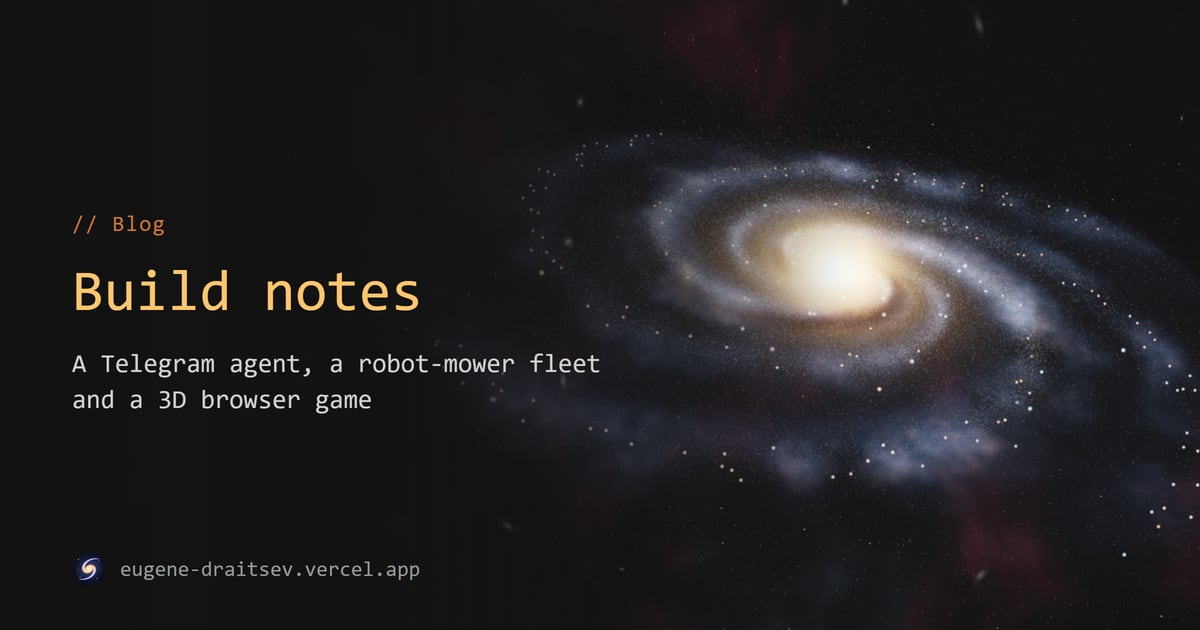
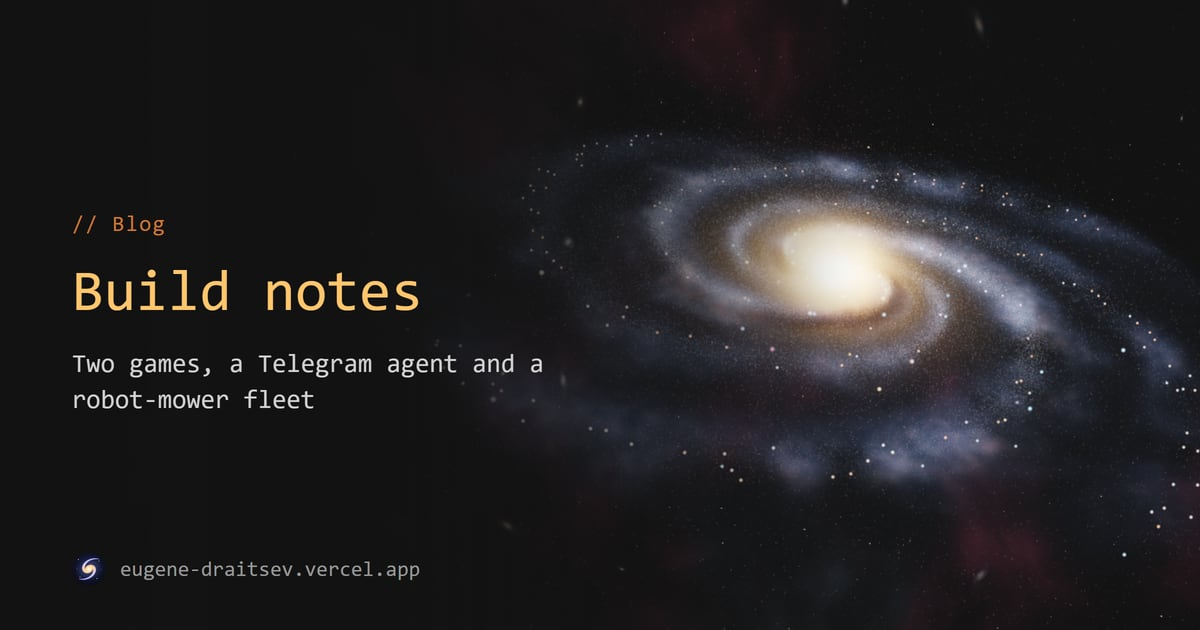
Add a post about Rainroam, the Shipaton 2026 entry
A souls-lite action RPG for phones, played with one thumb, drawn by a
WebGPU/TypeGPU renderer and a Phaser pixel-art renderer over the same
game state, so the style switches mid-fight. The post covers the
controls, the two renderers, the content, the problems worth writing
down (renderer sync, the Galaxy S25 driver bug, per-device renderer
choice, Samsung IAP through RevenueCat), pricing, the timeline from
plan to the web, Galaxy Store and the Mac App Store, the trailer and
the stack, with screenshots from the game's press kit and its own
social card. The blog card and intro now cover four projects.

Changed region(s): [[0.0617, 0.5429, 0.4933, 0.6635]]

diff --git a/src/routes/blog/rainroam/+page.svelte b/src/routes/blog/rainroam/+page.svelte
@@ -1,0 +1,388 @@
+<script lang="ts">
+  import SocialImage from '$lib/components/SocialImage.svelte';
+  import PostDates from '$lib/components/PostDates.svelte';
+  import { resolve } from '$app/paths';
+  import Icon from '$lib/components/Icon.svelte';
+  import ZoomableImage from '$lib/components/ZoomableImage.svelte';
+  import { getBlogPost, serializeJsonLd } from '$lib/blog';
+  import { SITE_DATA } from '$lib/constants';
+
+  const playUrl = 'https://rainroam.pages.dev/';
+  const galaxyUrl = 'https://galaxystore.samsung.com/detail/com.eugenedraitsev.rainroam';
+  const appStoreUrl = 'https://apps.apple.com/app/id6813862126';
+  const devpostUrl = 'https://devpost.com/software/rainroam';
+  const trailerUrl = 'https://www.youtube.com/watch?v=VofgRBF6jP4';
+
+  const post = getBlogPost('rainroam');
+  const canonicalUrl = new URL(`/blog/${post.slug}`, SITE_DATA.siteUrl).href;
+  const socialImageUrl = new URL(post.socialImage, SITE_DATA.siteUrl).href;
+  const postSchema = {
+    '@context': 'https://schema.org',
+    '@type': 'BlogPosting',
+    headline: post.title,
+    description: post.description,
+    image: socialImageUrl,
+    datePublished: post.datePublished,
+    dateModified: post.dateModified,
+    mainEntityOfPage: canonicalUrl,
+    author: { '@type': 'Person', name: SITE_DATA.details.name, url: SITE_DATA.siteUrl },
+  };
+
+  const highlights = [
+    { value: '13 days', label: 'first build to Galaxy Store' },
+    { value: '2', label: 'renderers, one game state' },
+    { value: '13', label: 'dungeons and caves' },
+    { value: '3', label: 'languages' },
+  ];
+
+  const content = [
+    '7 regions, from pink lakes to the snowy north, each with its own time of day and weather',
+    '5 towns with residents and questlines, starting from Bellwether',
+    '13 dungeons and caves with seeded layouts, secrets and a guardian at the end',
+    '2 heroes: a cat knight who fights up close and a frog Rainkeeper who casts from range',
+    '4 mini-games between fights: fishing, a paper-boat regatta, mushroom foraging and a concert',
+    'an original synthesized soundtrack that tightens in fights and settles at lanterns',
+  ];
+
+  const problems = [
+    {
+      title: 'keep two renderers in step',
+      text: 'Switching mid-fight only works if both renderers agree on everything that matters for play: hitboxes, the ground outline of every incoming attack, camera angle and timing. Neither renderer owns any of it. Both read the same simulation each frame, so a blow that starts in 3D lands exactly the same way in pixel art.',
+    },
+    {
+      title: 'a driver bug only real hardware shows',
+      text: 'On the Galaxy S25 an Adreno driver issue made skinned characters and their shadows disappear. It never showed in emulators; Samsung Remote Test Lab reproduced it. The fix was a different packing of the GPU buffers, and it reached the store build the same day through the app’s signed live-update channel.',
+    },
+    {
+      title: 'pick the renderer per device by testing it',
+      text: 'Phone models and chipsets say little about what the WebView actually supports, so the game probes graphics support inside the real WebView at start-up. Devices without WebGPU get the pixel-art renderer, which has the whole game; devices with it let the player choose.',
+    },
+    {
+      title: 'Galaxy Store billing through RevenueCat',
+      text: 'RevenueCat’s Capacitor plugin does not expose Galaxy Store billing. Its native Android SDK does, so that SDK is bridged into Capacitor by hand: Samsung IAP sells one non-consumable Full Game, and RevenueCat keeps the entitlement and handles restores. It was tested with real purchases on Galaxy hardware.',
+    },
+  ];
+
+  const timeline = [
+    {
+      title: 'Mid-August: planning',
+      text: 'The idea: something like a console action RPG that works on a phone held in one hand, on a train. A few throwaway prototypes followed by early September.',
+    },
+    {
+      title: 'September 17: version 0.0.1 on the web',
+      text: 'A cat knight in a voxel dungeon, deployed to Cloudflare Pages on day one. Everything after that shipped continuously from the same TypeScript codebase.',
+    },
+    {
+      title: 'September 30: Galaxy Store and Shipaton',
+      text: 'Galaxy Store approved version 1.0.1, and the game went in to RevenueCat Shipaton 2026 for the Best Game, RevenueCat Design and Best App for Galaxy awards.',
+    },
+    {
+      title: 'October: the Mac App Store and the Wishing Well',
+      text: 'The Mac version went live on the App Store, and version 1.1 added the Wishing Well, a hardcore roguelike mode in beta. The iPhone and iPad version is in its third round of App Store review.',
+    },
+  ];
+
+  const stack = [
+    { key: 'language', value: 'TypeScript, one codebase for web, Android, iOS and Mac' },
+    { key: '3D', value: 'WebGPU through TypeGPU: typed buffers, pipelines and WGSL shaders' },
+    { key: 'pixel art', value: 'Phaser on WebGL, its own sprites, animation and effects' },
+    { key: 'shells', value: 'Capacitor on Android and iOS, a native Mac app' },
+    { key: 'web', value: 'Cloudflare Pages, with signed live updates for the store builds' },
+    { key: 'purchases', value: 'RevenueCat, with Samsung IAP on Galaxy Store' },
+    { key: 'languages', value: 'English, Russian and Ukrainian' },
+  ];
+</script>
+
+<svelte:head>
+  <title>Rainroam: one action RPG, two renderers | Eugene Draitsev</title>
+  <meta
+    name="description"
+    content="How Rainroam was built: a one-thumb action RPG for phones with a WebGPU/TypeGPU 3D renderer and a Phaser pixel-art renderer drawing the same game state, shipped to the web, Galaxy Store and the Mac App Store."
+  />
+  <link rel="canonical" href={canonicalUrl} />
+  <meta property="og:title" content={post.title} />
+  <meta property="og:description" content={post.description} />
+  <meta property="og:type" content="article" />
+  <meta property="og:url" content={canonicalUrl} />
+  <meta property="article:published_time" content={post.datePublished} />
+  <meta property="article:modified_time" content={post.dateModified} />
+  <svelte:element this={"script"} type="application/ld+json">
+    {serializeJsonLd(postSchema)}
+  </svelte:element>
+</svelte:head>
+
+<SocialImage src={post.socialImage} alt={post.title} />
+
+<main id="main-content" class="overlapped blog-page" tabindex="-1">
+  <article class="relative mx-auto mt-[-72px] max-w-4xl px-3 pb-10 sm:px-4">
+    <div class="card">
+      <a
+        class="inline-flex items-center gap-2 text-sm text-constant underline"
+        href={resolve('/blog')}
+      >
+        <Icon icon="mdi:arrow-left" height="18" width="18" />
+        Back to posts
+      </a>
+
+      <header class="mt-6 mb-8">
+        <p class="mb-3 text-xs text-keyword uppercase sm:text-sm">
+          RevenueCat Shipaton 2026 · with Hanna Shcharbakova
+        </p>
+        <h1 class="blog-title">Rainroam: one action RPG, drawn by two renderers</h1>
+        <p class="post-meta">
+          <PostDates added={post.datePublished} updated={post.dateModified} />
+        </p>
+        <p class="blog-lead">
+          Rainroam is a souls-lite action adventure on islands above the clouds. You play a cat
+          knight or a frog Rainkeeper, take quests in towns, clear dungeons and fight the guardians
+          at the end of them, all with one thumb on a phone held upright. The whole game can be
+          drawn in soft-lit 3D or in pixel art, and you can switch between them at any moment, even
+          in the middle of a fight. It went from a plan in August to the web, Galaxy Store and the
+          Mac App Store in about six weeks; the iPhone version is in its third round of App Store
+          review.
+        </p>
+        <div class="mt-5 flex flex-wrap gap-4 text-sm">
+          <a class="text-constant underline" href={playUrl} target="_blank" rel="noreferrer"
+            >Play in the browser</a
+          >
+          <a class="text-constant underline" href={galaxyUrl} target="_blank" rel="noreferrer"
+            >Galaxy Store</a
+          >
+          <a class="text-constant underline" href={appStoreUrl} target="_blank" rel="noreferrer"
+            >Mac App Store</a
+          >
+          <a class="text-constant underline" href={devpostUrl} target="_blank" rel="noreferrer"
+            >Devpost submission</a
+          >
+          <a class="text-constant underline" href={trailerUrl} target="_blank" rel="noreferrer"
+            >Trailer</a
+          >
+        </div>
+
+        <dl class="stat-strip">
+          {#each highlights as highlight (highlight.label)}
+            <div class="stat">
+              <dt class="stat-value">{highlight.value}</dt>
+              <dd class="stat-label">{highlight.label}</dd>
+            </div>
+          {/each}
+        </dl>
+      </header>
+
+      <ZoomableImage
+        src="/blog/rainroam/hero-split.webp"
+        alt="The same evening in Bellwether, drawn in 3D on the left and in pixel art on the right"
+        figureClass="mb-12 overflow-hidden rounded border border-base-300 bg-base-100"
+        imageClass="w-full"
+        loading="eager"
+        caption="The same evening in Bellwether, drawn twice: 3D on the left, pixel art on the right."
+      />
+
+      <section class="mb-12">
+        <h2 class="section-heading">Played with one thumb</h2>
+        <p class="mb-6">
+          We like action RPGs on consoles and wanted one that works on a phone in one hand. Rainroam
+          is played in portrait: drag to move, release to attack, tap to dash. A second finger can
+          dash without letting go of the stick. Basic attacks are automatic, so the thumb is free
+          for positioning, stamina and timing, and every enemy attack draws its exact shape on the
+          ground before it lands. Landscape and keyboard play follow the same rules.
+        </p>
+        <div class="grid grid-cols-2 gap-4 sm:mx-auto sm:max-w-md">
+          <ZoomableImage
+            src="/blog/rainroam/phone-hero-3d.webp"
+            alt="Rainroam in portrait on a phone, drawn in 3D"
+            figureClass="overflow-hidden rounded border border-base-300"
+            imageClass="w-full"
+            caption="Portrait, 3D."
+          />
+          <ZoomableImage
+            src="/blog/rainroam/phone-hero-pixel.webp"
+            alt="The same Rainroam scene in portrait on a phone, drawn in pixel art"
+            figureClass="overflow-hidden rounded border border-base-300"
+            imageClass="w-full"
+            caption="The same moment in pixel art."
+          />
+        </div>
+      </section>
+
+      <section class="mb-12">
+        <h2 class="section-heading">Two renderers, one game state</h2>
+        <p class="mb-6">
+          The 3D view runs on WebGPU through TypeGPU; the pixel-art view runs on Phaser and WebGL.
+          They share no drawing code: each has its own characters, animations, scenery and effects,
+          and the HUD, map, fonts and menus change style with them. What they share is the
+          simulation. Both read the same game state every frame, so switching restarts nothing: the
+          hero, the enemies, the incoming attack and the save stay exactly where they were. It also
+          covers older phones, where the full game runs in pixel art without WebGPU.
+        </p>
+        <ZoomableImage
+          src="/blog/rainroam/battle-split.webp"
+          alt="A fight with amber moths, split down the middle between 3D and pixel art"
+          figureClass="mb-6 overflow-hidden rounded border border-base-300"
+          imageClass="w-full"
+          caption="Amber moths and a shard warden. The outline on the ground is the exact shape of the blow, in both styles."
+        />
+      </section>
+
+      <section class="mb-12">
+        <h2 class="section-heading">What there is to do</h2>
+        <ul class="mb-6 list-disc space-y-1 pl-5">
+          {#each content as item (item)}
+            <li>{item}</li>
+          {/each}
+        </ul>
+        <p class="mb-6">
+          Enemies drop embers. You can push on, or walk back to a lantern to spend them on levels,
+          attributes and oaths; die, and they wait where you fell until you fetch them. The Wishing
+          Well, in beta, is a separate hardcore roguelike: six depths with a keeper at the end of
+          each, 75 artifacts, synergies and one life.
+        </p>
+        <div class="grid gap-4 sm:grid-cols-2">
+          <ZoomableImage
+            src="/blog/rainroam/white-stair.webp"
+            alt="The White Stair, a floating dungeon hall, with rings marking the Key Warden's slam"
+            figureClass="overflow-hidden rounded border border-base-300"
+            imageClass="w-full"
+            caption="The White Stair. The rings show where the Key Warden will slam."
+          />
+          <ZoomableImage
+            src="/blog/rainroam/prism-hollow.webp"
+            alt="Prism Hollow, a crystal cave, and its guardian, split between 3D and pixel art"
+            figureClass="overflow-hidden rounded border border-base-300"
+            imageClass="w-full"
+            caption="Prism Hollow and its guardian, 3D and pixel art."
+          />
+          <ZoomableImage
+            src="/blog/rainroam/reedwake-storm.webp"
+            alt="Reedwake at night in a storm, with the frog Rainkeeper"
+            figureClass="overflow-hidden rounded border border-base-300"
+            imageClass="w-full"
+            caption="Reedwake at night, in a storm."
+          />
+          <ZoomableImage
+            src="/blog/rainroam/amber-fight.webp"
+            alt="A pixel-art fight in Amber Afterlight at dusk, with red lines marking incoming attacks"
+            figureClass="overflow-hidden rounded border border-base-300"
+            imageClass="w-full"
+            caption="Pixel art: a fight in Amber Afterlight at dusk."
+          />
+        </div>
+      </section>
+
+      <section class="mb-12">
+        <h2 class="section-heading">Problems worth writing down</h2>
+        <div class="rulelist">
+          {#each problems as problem, index (problem.title)}
+            <article class="rule">
+              <span class="rule-index">{String(index + 1).padStart(2, '0')}</span>
+              <h3 class="rule-title">{problem.title}</h3>
+              <p class="rule-text">{problem.text}</p>
+            </article>
+          {/each}
+        </div>
+      </section>
+
+      <section class="mb-12">
+        <h2 class="section-heading">Pricing</h2>
+        <p>
+          The first island and its first dungeon are free. At the South Bridge you can buy the Full
+          Game once for $4.99, and the same save carries on through the rest of the story; the same
+          purchase opens the deeper levels of the Wishing Well. There are no ads, subscriptions,
+          energy timers or paid power. A free first chapter and one price is how adventure games are
+          usually sold, and it lets people decide whether they like the game before paying.
+        </p>
+      </section>
+
+      <section class="mb-12">
+        <h2 class="section-heading">How it got here</h2>
+        <ol class="timeline">
+          {#each timeline as item, index (item.title)}
+            <li class="timeline-item">
+              <h3 class="timeline-title">
+                <span class="timeline-index">{String(index + 1).padStart(2, '0')}</span>
+                {item.title}
+              </h3>
+              <p class="timeline-text">{item.text}</p>
+            </li>
+          {/each}
+        </ol>
+        <p class="mt-6">
+          Like Orb Knight, it was built with coding agents: Claude Code and Codex wrote most of the
+          roughly 1,400 commits, while direction, review and a lot of playtesting stayed with us.
+          Hanna Shcharbakova is the other half of the team.
+        </p>
+      </section>
+
+      <section class="mb-12">
+        <h2 class="section-heading">The trailer</h2>
+        <a
+          class="trailer block overflow-hidden rounded border border-base-300"
+          href={trailerUrl}
+          target="_blank"
+          rel="noreferrer"
+          aria-label="Watch the Rainroam trailer on YouTube"
+        >
+          <img
+            src="/blog/rainroam/trailer.webp"
+            alt="The cat knight in 3D and as a pixel-art sprite, from the Rainroam trailer"
+            class="w-full"
+            loading="lazy"
+          />
+          <span class="trailer-play" aria-hidden="true">
+            <Icon icon="mdi:play" height="34" width="34" />
+          </span>
+        </a>
+        <p class="mt-3 text-sm text-identifier/70">Made from real gameplay. Opens on YouTube.</p>
+      </section>
+
+      <section class="mb-12">
+        <h2 class="section-heading">What it runs on</h2>
+        <dl class="spec">
+          {#each stack as row (row.key)}
+            <div class="spec-row">
+              <dt class="spec-key">{row.key}</dt>
+              <dd class="spec-value">{row.value}</dd>
+            </div>
+          {/each}
+        </dl>
+      </section>
+
+      <section>
+        <h2 class="section-heading">What's next</h2>
+        <p>
+          Tuning the Wishing Well while it is in beta, then full controller support, and after that
+          consoles.
+        </p>
+      </section>
+    </div>
+  </article>
+</main>
+
+<style>
+  .trailer {
+    position: relative;
+  }
+
+  .trailer-play {
+    position: absolute;
+    top: 50%;
+    left: 50%;
+    display: grid;
+    place-items: center;
+    width: 4.5rem;
+    height: 4.5rem;
+    margin: -2.25rem 0 0 -2.25rem;
+    border-radius: 50%;
+    background: rgb(0 0 0 / 0.6);
+    color: #fff;
+    transition:
+      transform 160ms ease,
+      background-color 160ms ease;
+  }
+
+  .trailer:hover .trailer-play,
+  .trailer:focus-visible .trailer-play {
+    transform: scale(1.08);
+    background: rgb(204 120 50 / 0.85);
+  }
+</style>

diff --git a/src/lib/icons.ts b/src/lib/icons.ts
@@ -37,6 +37,10 @@ export const ICONS: Record<string, IconDef> = {
     viewBox: '0 0 24 24',
     body: '<path fill="currentColor" d="M20 11v2H8l5.5 5.5l-1.42 1.42L4.16 12l7.92-7.92L13.5 5.5L8 11z"/>',
   },
+  'mdi:play': {
+    viewBox: '0 0 24 24',
+    body: '<path fill="currentColor" d="M8 5.14v14l11-7z"/>',
+  },
   'mdi:view-dashboard-outline': {
     viewBox: '0 0 24 24',
     body: '<path fill="currentColor" d="M19 5v2h-4V5zM9 5v6H5V5zm10 8v6h-4v-6zM9 17v2H5v-2zM21 3h-8v6h8zM11 3H3v10h8zm10 8h-8v10h8zm-10 4H3v6h8z"/>',
